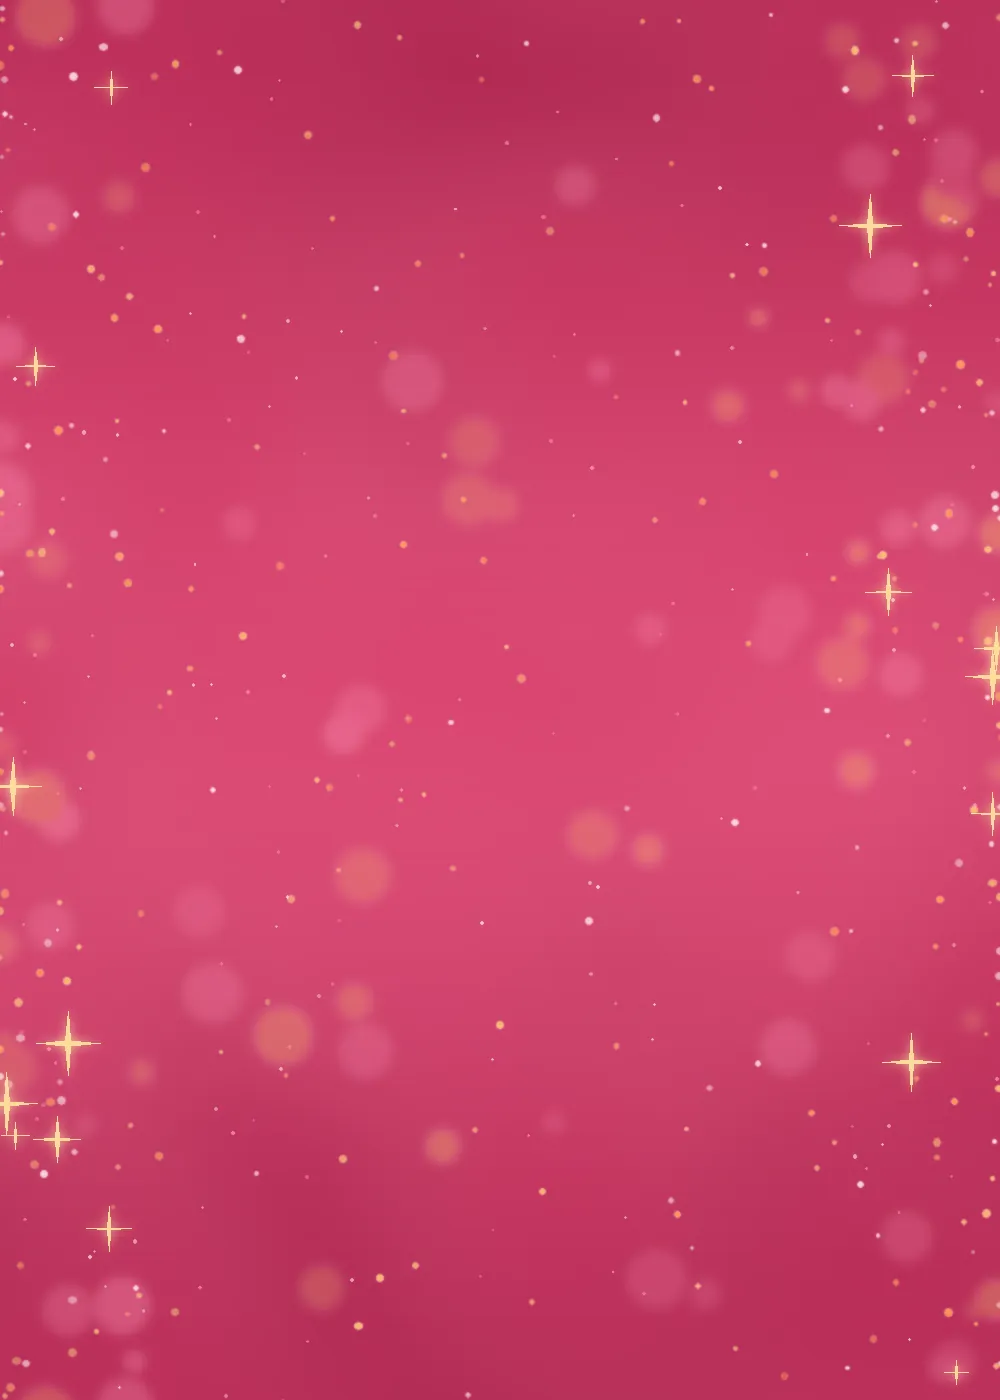
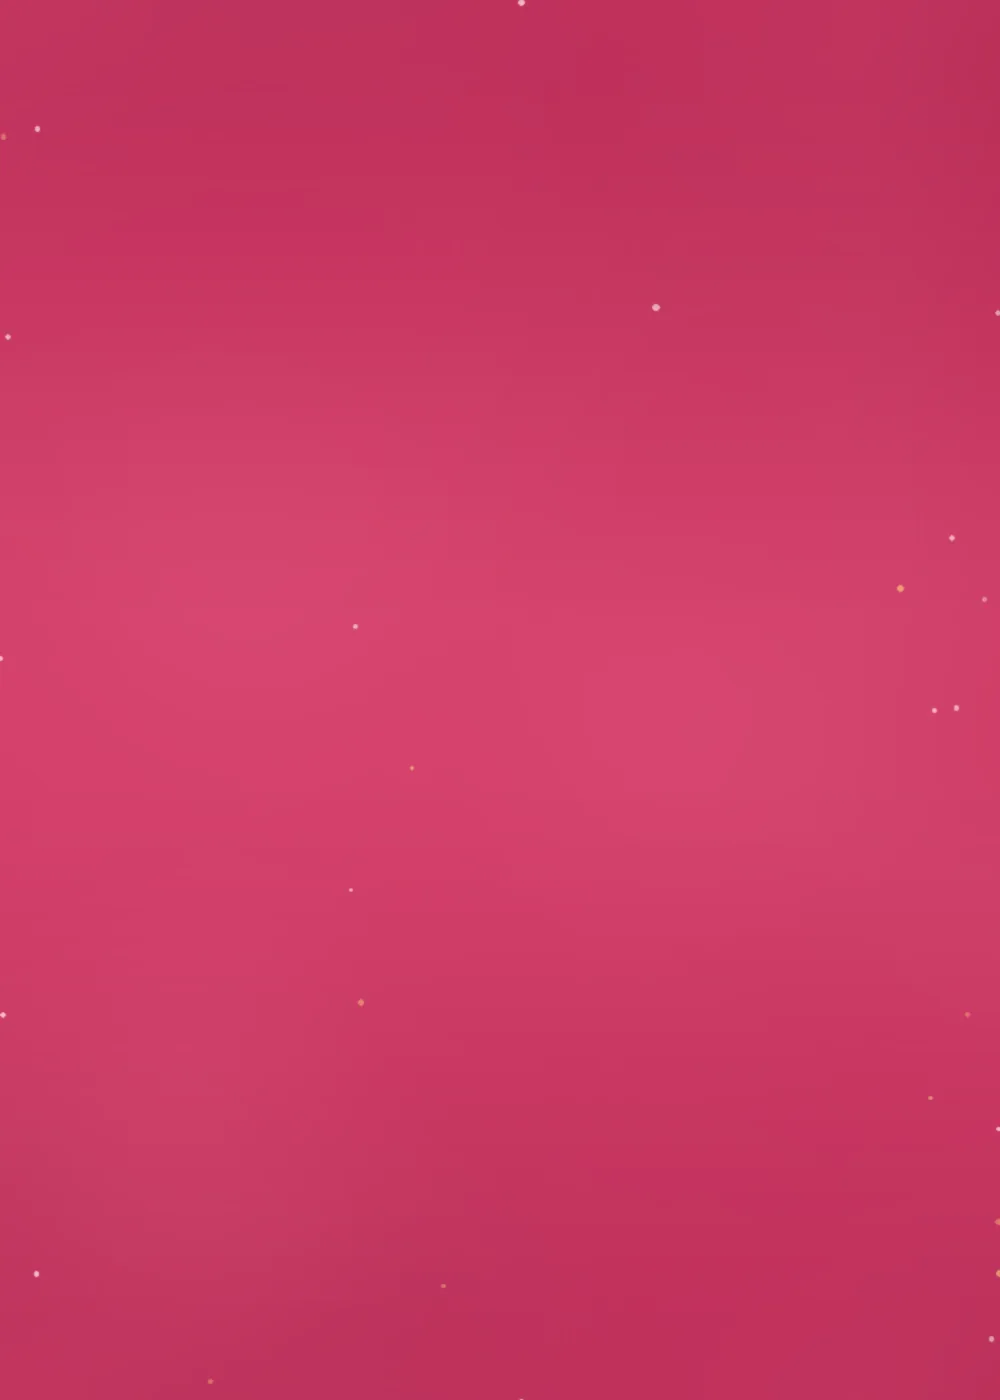
style: 中央の背景柄を控えめにし、カードのぼかしを削除

diff --git a/style.css b/style.css
@@ -124,9 +124,8 @@ sup{font-size:max(10px,.42em);font-weight:500;vertical-align:super;line-height:0
 .dayslide{position:relative;margin:0 -24px}
 .days{--w:440px;position:relative;display:flex;gap:16px;padding:24px calc(50% - var(--w)/2) 30px;overflow-x:auto;scroll-snap-type:x mandatory;scrollbar-width:none}
 .days::-webkit-scrollbar{display:none}
-.day{position:relative;flex:0 0 var(--w);scroll-snap-align:center;color:var(--ink);transition:opacity .3s,transform .3s}
-.day:not(.is-on){opacity:.62;transform:scale(.96)}
-.dayarrow{position:absolute;top:50%;z-index:2;width:52px;height:52px;margin-top:-26px;border:0;border-radius:50%;background:var(--gold-grad);box-shadow:0 4px 14px #7a123a66;cursor:pointer}
+.day{position:relative;flex:0 0 var(--w);scroll-snap-align:center;color:var(--ink)}
+.dayarrow{position:absolute;top:50%;z-index:2;width:52px;height:52px;margin-top:-26px;border:0;border-radius:50%;background:var(--gold-grad);cursor:pointer}
 .dayarrow::after{content:"";position:absolute;left:50%;top:50%;width:13px;height:13px;border-top:3px solid var(--wine);border-right:3px solid var(--wine)}
 .dayarrow--p{left:34px}.dayarrow--p::after{transform:translate(-30%,-50%) rotate(-135deg)}
 .dayarrow--n{right:34px}.dayarrow--n::after{transform:translate(-70%,-50%) rotate(45deg)}
@@ -231,7 +230,7 @@ sup{font-size:max(10px,.42em);font-weight:500;vertical-align:super;line-height:0
 .rail--l{left:max(12px,calc(50% - var(--col)/2 - var(--rail) - 34px))}
 .rail--r{right:max(12px,calc(50% - var(--col)/2 - var(--rail) - 34px));text-align:center}
 .rbox{border-radius:14px;border:3px solid transparent;background:linear-gradient(#fff,#fff) padding-box,linear-gradient(160deg,#fff0c4,#d9a94f 30%,#ffe9b4 55%,#c9953c) border-box;box-shadow:0 10px 34px -8px #b5264f66;overflow:hidden}
-.rbox__head{padding:18px 12px 14px;background:#c8345f url(images/tex-a.webp) center 30%/150% auto;color:#fff;text-align:center}
+.rbox__head{padding:18px 12px 14px;background:#c8345f url(images/tex-a.webp?v=2) center 30%/150% auto;color:#fff;text-align:center}
 .rail__logo{width:96px;margin:0 auto}
 .rail__ttl{margin-top:10px;font-family:var(--num);font-weight:600;font-size:27px;line-height:1.1}
 .rail__ttl b{display:block;font-weight:700;font-size:80px;line-height:.95;letter-spacing:.01em}
@@ -353,8 +352,8 @@ sup{font-size:max(10px,.42em);font-weight:500;vertical-align:super;line-height:0
 @media (min-width:601px){.calsec__h button{cursor:default;pointer-events:none}}
 
 /* ---- 中央の地: FVの赤ピンクの夜空(a) / きらめくピンクの雪(b) ---- */
-.sec--a{background:#c8345f url(images/tex-a.webp) center top/100% auto;color:#fff}
-.sec--b{background:#ffcad8 url(images/tex-b.webp) center top/100% auto}
+.sec--a{background:#c8345f url(images/tex-a.webp?v=2) center top/100% auto;color:#fff}
+.sec--b{background:#ffcad8 url(images/tex-b.webp?v=2) center top/100% auto}
 .sec--a,.sec--b{padding-left:24px;padding-right:24px}
 .sec--a>.note{color:#ffe6ee}
 .sec--a>.state{border-color:#fff;color:#fff}
@@ -365,7 +364,7 @@ sup{font-size:max(10px,.42em);font-weight:500;vertical-align:super;line-height:0
 .sec--a>.gcd .gcd__l{color:#ffe9b4}
 .sec--a>.deal__m{color:#fff}
 /* FV下の2枠と同じ金フチのパネル */
-.panel,.day{border:4px solid transparent;border-radius:30px;background:linear-gradient(180deg,#fff,#fff1f4 70%,#ffe9ee) padding-box,linear-gradient(150deg,#fff3cf,#e0ad54 28%,#fff0c6 52%,#cf9a40 78%,#ffe9b4) border-box;box-shadow:0 0 26px #ffd5e0cc;color:var(--ink)}
+.panel,.day{border:4px solid transparent;border-radius:30px;background:linear-gradient(180deg,#fff,#fff1f4 70%,#ffe9ee) padding-box,linear-gradient(150deg,#fff3cf,#e0ad54 28%,#fff0c6 52%,#cf9a40 78%,#ffe9b4) border-box;color:var(--ink)}
 .panel{margin-top:26px;padding:26px 22px 30px;text-align:center}
 .panel>.ticket:first-child{margin-top:0}
 .panel .note{color:var(--ink2)}

diff --git a/index.html b/index.html
@@ -10,7 +10,7 @@
 <link rel="preconnect" href="https://fonts.googleapis.com">
 <link rel="preconnect" href="https://fonts.gstatic.com" crossorigin>
 <link rel="stylesheet" href="https://fonts.googleapis.com/css2?family=Jost:wght@300;400;500;600;700&family=Noto+Sans+JP:wght@400;500;700&display=swap">
-<link rel="stylesheet" href="style.css?v=9">
+<link rel="stylesheet" href="style.css?v=10">
 </head>
 <body>
 
